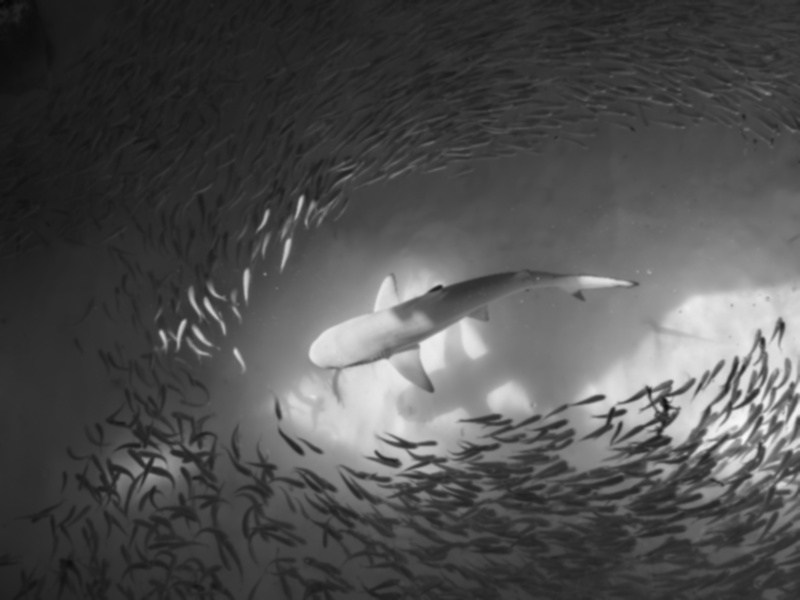
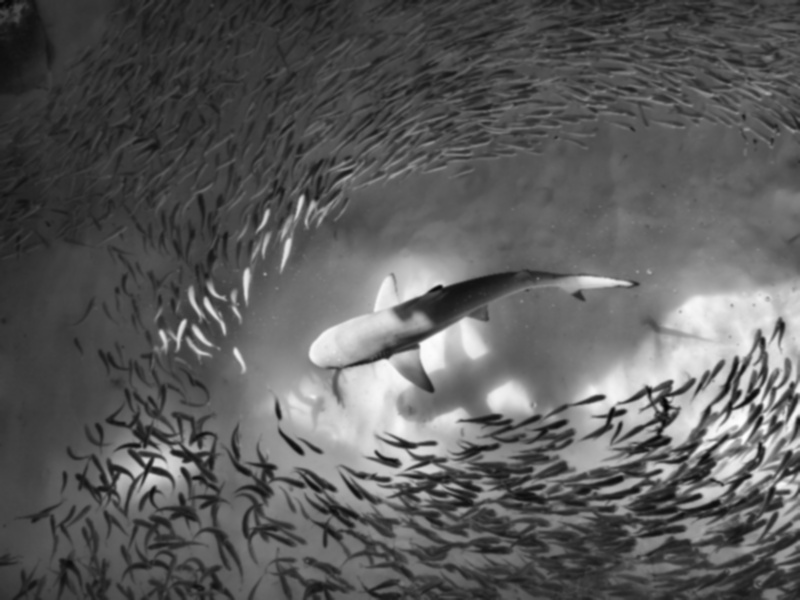
Add CLAHE contrast enhancement

diff --git a/main.py b/main.py
@@ -4,7 +4,7 @@ from src.analysis import calculate_contour_statistics
 from src.detection import detect_edges, draw_bounding_boxes, draw_contours, filter_contours_by_area, find_contours
 from src.image_loader import load_image
 from src.image_saver import print_save_status, save_image
-from src.preprocessing import apply_gaussian_blur, apply_morphological_closing, convert_to_grayscale, resize_image
+from src.preprocessing import apply_clahe, apply_gaussian_blur, apply_morphological_closing, convert_to_grayscale, resize_image
 
 
 image = load_image("images/sample_marine.jpg")
@@ -50,9 +50,28 @@ print_save_status(
     image_label="Grayscale"
 )
 
+enhanced_image = apply_clahe(
+    grayscale_image=grayscale_image,
+    clip_limit=2.0,
+    tile_grid_size=(8, 8)
+)
+
+print("Image contrast enhanced successfully.")
+print(f"Enhanced image shape: {enhanced_image.shape}")
+
+save_successful = save_image(
+    enhanced_image,
+    "output/enhanced_image.jpg"
+)
+
+print_save_status(
+    save_successful,
+    image_label="Enhanced"
+)
+
 # Reduce image noise before edge detection
 blurred_image = apply_gaussian_blur(
-    grayscale_image,
+    enhanced_image,
     kernel_size=5
 )
 

diff --git a/tests/test_preprocessing.py b/tests/test_preprocessing.py
@@ -1,6 +1,6 @@
 import numpy as np
 
-from src.preprocessing import apply_gaussian_blur, apply_morphological_closing, convert_to_grayscale, resize_image 
+from src.preprocessing import apply_clahe, apply_gaussian_blur, apply_morphological_closing, convert_to_grayscale, resize_image 
 
 
 def test_resize_image():
@@ -52,3 +52,18 @@ def test_morphological_closing():
 
     assert image.shape == closed_edge_image.shape
     assert closed_edge_image[50, 20] == 255
+
+
+def test_apply_clahe():
+    image = np.full((100, 100), 100, dtype=np.uint8)
+    image[20:30, 20:40] = 110
+
+    enhanced_image = apply_clahe(
+        grayscale_image=image,
+        clip_limit=2.0,
+        tile_grid_size=(8, 8)
+    )
+
+    assert image.shape == enhanced_image.shape
+    assert image.dtype == enhanced_image.dtype
+    assert not np.array_equal(image, enhanced_image)

diff --git a/src/preprocessing.py b/src/preprocessing.py
@@ -30,3 +30,14 @@ def apply_morphological_closing(edge_image, kernel_size):
         )
 
     return result
+
+
+def apply_clahe(grayscale_image, clip_limit, tile_grid_size):
+    clahe = cv2.createCLAHE(
+        clipLimit=clip_limit,
+        tileGridSize=tile_grid_size
+        )
+
+    enhanced_image = clahe.apply(grayscale_image)
+
+    return enhanced_image
